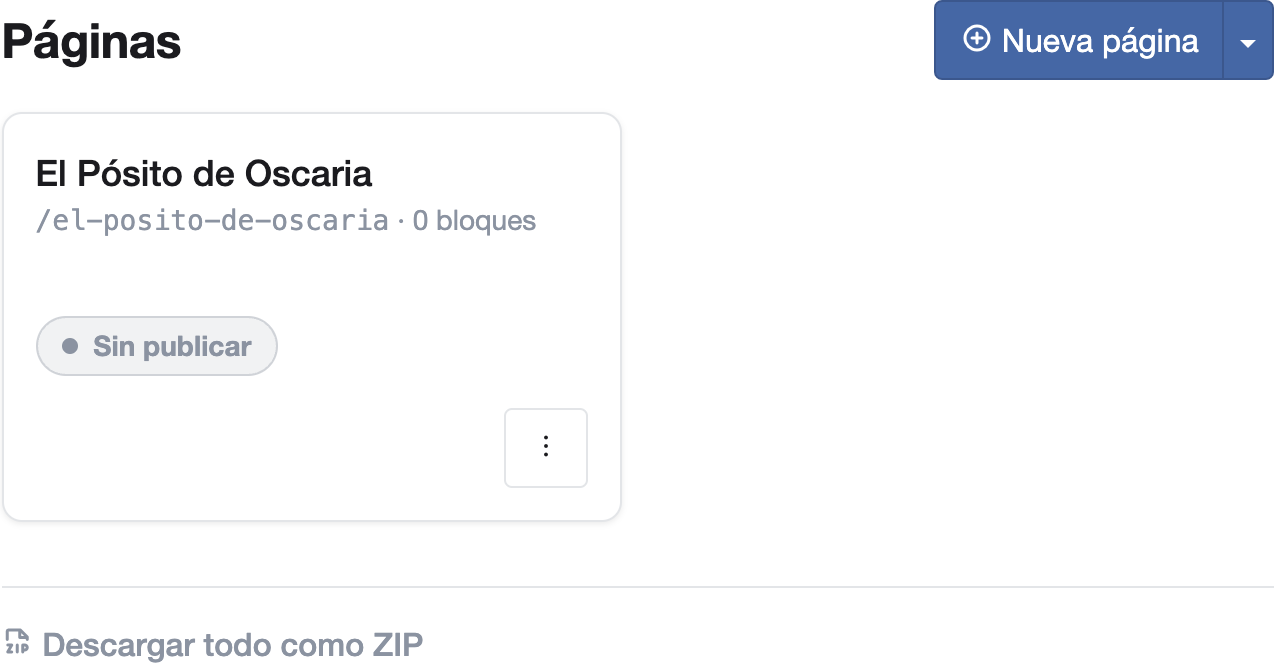
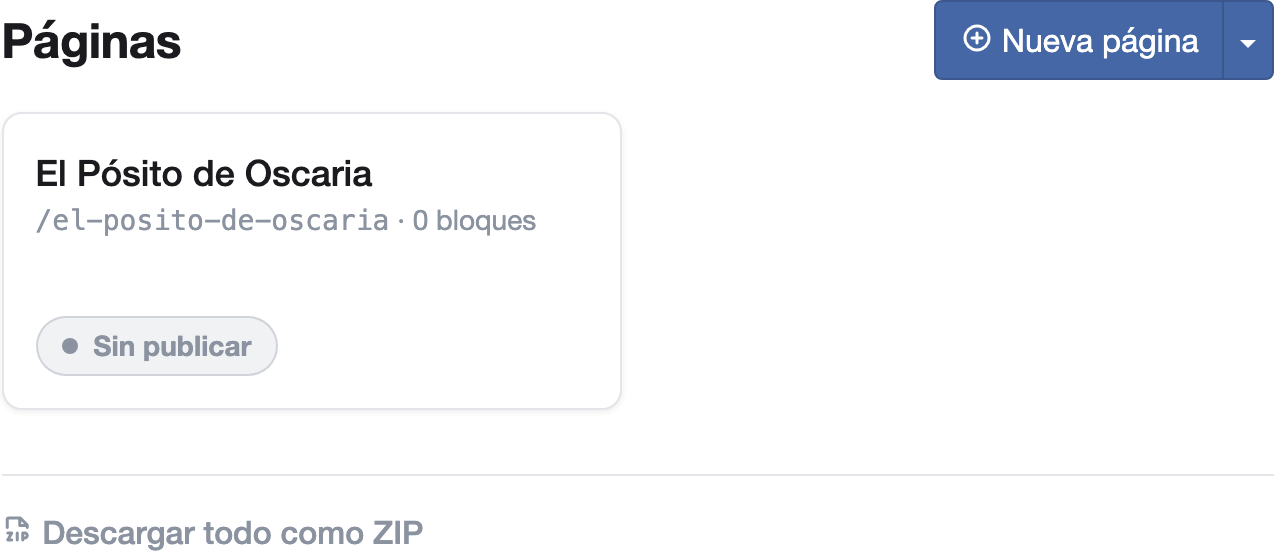
docs(user-guide): plantillas con origen y «Ver», menú «Portal de difusión» y lista «Del catálogo»
La guía explica cómo saber si la página de una plantilla ha cambiado y cómo actualizarla, cómo ver una plantilla antes de
elegirla y la vista previa desde la lista de páginas. El mantenimiento de las plantillas pasa a su propia página. Las
entradas del portal están en el apartado «Portal de difusión» del menú de Administración. En «Del catálogo», el botón de
cada fila es «Quitar de la lista» y un icono abre en otra pestaña lo que nombra; la búsqueda elegida en un bloque se
abre pulsando su nombre, y el número de fichas del visitante solo se dice si ve menos que quien edita.

diff --git a/docs/user-guide/diffusion-portal/index.md b/docs/user-guide/diffusion-portal/index.md
@@ -14,14 +14,17 @@ escribir código. Esta sección explica, tarea a tarea, cómo hacerlo.
 - [Ampliar una imagen al hacer clic](image-zoom.md)
 - [Elegir las imágenes de un bloque](choose-images.md)
 - [Poner un vídeo](video.md)
-- [Empezar desde una plantilla y mantenerlas](templates.md)
+- [Empezar desde una plantilla](templates.md)
+- [Mantener las plantillas de página](maintain-templates.md)
 - [Elegir contenido del catálogo](catalog-content.md)
 
 ## Antes de empezar
 
 Para editar el portal necesitas una cuenta con permiso de administración del portal.
 
-1. En **Administración**, apartado **General**, pulsa **Portal de Difusión**. Se abre la lista de **Páginas**.
+1. En **Administración**, apartado **Portal de difusión**, pulsa **Páginas del portal**. Se abre la lista de **Páginas**.
+
+    ![El apartado Portal de difusión del menú de Administración.](../../assets/screenshots/es/diffusion-portal/index/admin-menu.png){ width="490" }
 
     ![Lista de Páginas del Portal de Difusión.](../../assets/screenshots/es/diffusion-portal/index/pages-list.png){ width="638" }
 
@@ -29,9 +32,14 @@ Para editar el portal necesitas una cuenta con permiso de administración del po
 
     ![Editor de página del portal, sin bloques.](../../assets/screenshots/es/diffusion-portal/index/page-editor.png){ width="736" }
 
+Para ver una página sin abrir su editor, pasa el ratón por su tarjeta y pulsa **Más acciones** y **Vista previa**: se
+abre en otra pestaña.
+
+![El menú de una tarjeta.](../../assets/screenshots/es/diffusion-portal/templates/page-card-menu.png){ width="310" }
+
 Para crear una página, pulsa **Nueva página**. Su **Ruta** se propone a partir del título. Si hay plantillas que ofrecer, en **Empezar con** eliges una página en blanco o una plantilla ([Empezar desde una plantilla](templates.md)).
 
-![Ventana Nueva página, con el Título escrito y la Ruta propuesta.](../../assets/screenshots/es/diffusion-portal/index/new-page.png){ width="640" }
+![La ventana Nueva página, con la Ruta propuesta.](../../assets/screenshots/es/diffusion-portal/index/new-page.png){ width="640" }
 
 ## Cómo funciona el editor
 
@@ -40,7 +48,7 @@ Para crear una página, pulsa **Nueva página**. Su **Ruta** se propone a partir
   valores del ejemplo: arriba, las que definen su contenido; debajo, las demás, en grupos plegados
   ([Ver y cambiar las demás opciones de un bloque](block-options.md)).
 
-    ![Catálogo de bloques que se abre con Añadir bloque.](../../assets/screenshots/es/diffusion-portal/index/block-catalog.png){ width="421" }
+    ![El catálogo de bloques.](../../assets/screenshots/es/diffusion-portal/index/block-catalog.png){ width="421" }
 
 - **Cambiar el ejemplo por tu contenido**: cambia cada texto en su campo y cada imagen con **Cambiar**
   ([Cambiar o quitar la imagen](choose-images.md#cambiar-o-quitar-la-imagen)). En los bloques con elementos, como un
@@ -48,8 +56,8 @@ Para crear una página, pulsa **Nueva página**. Su **Ruta** se propone a partir
 - **Cambiar un bloque**: pulsa en cualquier punto del bloque para volver a abrir sus opciones
   ([Seleccionar un bloque](select-block.md)).
 - **Guardar**: cada cambio de las opciones de un bloque se guarda solo, y cada elemento de una lista, con **Guardar
-  elemento**. El aviso «Guardado» lo confirma y, si algo no se ha guardado, un mensaje te dice qué campo revisar y el
-  campo queda marcado ([Guardar los cambios](save-changes.md)).
+  elemento**. El aviso «Guardado» lo confirma. Si algo no se guarda, un mensaje dice qué campo
+  revisar ([Guardar los cambios](save-changes.md)).
 - **Ver cómo queda**: pulsa **Vista previa**. Se abre en otra pestaña la página con tus cambios, con la cabecera y el
   pie de la web pública, y puedes verla con el ancho de un móvil, una tableta o un escritorio
   ([Ver la página en cada dispositivo](publish.md#ver-la-pagina-en-cada-dispositivo)). Si haces más cambios, recarga

diff --git a/docs/user-guide/diffusion-portal/templates.md b/docs/user-guide/diffusion-portal/templates.md
@@ -1,4 +1,4 @@
-# Empezar desde una plantilla y mantenerlas
+# Empezar desde una plantilla
 
 Una página nueva puede empezar con el contenido de una plantilla, una página guardada para ese fin. La página que
 creas es una copia: la editas sin tocar la plantilla, y corregir después la plantilla no cambia las páginas ya
@@ -13,50 +13,16 @@ creadas.
 
     ![La ventana Nueva página con una plantilla elegida en Empezar con.](../../assets/screenshots/es/diffusion-portal/templates/new-page-from-template.png){ width="640" }
 
-**Empezar con** solo aparece si el portal tiene plantillas.
+**Empezar con** solo aparece si el portal tiene plantillas. Para ver una antes de elegirla, pulsa **Ver**, que sale al
+pasar el ratón por la plantilla o al llegar a ella con Tab: se abre en otra pestaña cómo queda la página.
+
+![Nueva página con Ver a la vista junto a la plantilla de Empezar con.](../../assets/screenshots/es/diffusion-portal/templates/new-page-view.png){ width="640" }
 
 La página nace como borrador: los visitantes no la ven hasta que la publicas ([Publicar una página](publish.md)). Si la
 plantilla conserva textos o imágenes del ejemplo de un bloque, la página también los conserva, y al publicarla sale el
 aviso de contenido de ejemplo
 ([Si la página conserva contenido del ejemplo](publish.md#si-la-pagina-conserva-contenido-del-ejemplo)).
 
-Las imágenes y los vídeos de la plantilla son los de **Imágenes y vídeos del portal**. La página creada los muestra
-sin que se copie nada.
+La página creada usa las imágenes y los vídeos de la plantilla, que están en **Imágenes y vídeos del portal**.
 
-## Añadir una plantilla
-
-Quien administra el portal mantiene las plantillas. En **Administración**, apartado **General**, pulsa **Plantillas de
-página**.
-
-![Plantillas de página, con la plantilla guardada, su descripción y sus acciones.](../../assets/screenshots/es/diffusion-portal/templates/templates.png){ width="638" }
-
-1. Pulsa **Añadir plantilla**.
-2. En **Contenido**, elige la página de tu portal de la que se toma el contenido. Se guarda lo que ves en el editor,
-   aunque no esté publicado.
-3. Pulsa **Guardar plantilla**.
-
-    ![El diálogo Añadir plantilla, con el Nombre, la Descripción y la página elegida en Contenido.](../../assets/screenshots/es/diffusion-portal/templates/template-form.png){ width="640" }
-
-El **Nombre** es obligatorio y puede repetirse. Con él aparece la plantilla en **Plantillas de página** y en **Nueva
-página**. La **Descripción** admite negrita, cursiva, listas y enlaces.
-
-También se guarda una página como plantilla desde su editor: en **Más acciones**, pulsa **Guardar como
-plantilla…**. El **Nombre** se propone con el título de la página. Al guardar sale el aviso «Se ha guardado la plantilla
-«…».».
-
-## Corregir una plantilla
-
-La plantilla no se edita en el editor de páginas, que trabaja con páginas. Para corregir su contenido:
-
-1. Crea una página desde la plantilla y corrígela. No hace falta publicarla.
-2. En **Plantillas de página**, pulsa **Editar** en la plantilla.
-3. En **Contenido**, elige esa página y pulsa **Guardar plantilla**.
-
-Con **Contenido** vacío se conserva el contenido actual y solo cambian el **Nombre** y la **Descripción**.
-
-## Ocultar y eliminar una plantilla
-
-- **Ocultar** retira la plantilla de **Nueva página**. En **Plantillas de página** sigue visible con la marca
-  **Oculta**, y **Mostrar** la devuelve a **Nueva página**.
-- **Eliminar** pide confirmación: pulsa **Eliminar plantilla**. Se borran su contenido y su descripción, y no se puede
-  deshacer. Las páginas creadas desde ella no cambian.
+Quien administra el portal añade, actualiza, oculta y elimina las plantillas ([Mantener las plantillas](maintain-templates.md)).

diff --git a/docs/user-guide/diffusion-portal/maintain-templates.md b/docs/user-guide/diffusion-portal/maintain-templates.md
@@ -1,0 +1,60 @@
+# Mantener las plantillas de página
+
+Las plantillas se mantienen en **Plantillas de página**: se añaden, se ponen al día cuando cambia la página de la que
+salen, se ocultan y se eliminan. Se usan al crear una página ([Empezar desde una plantilla](templates.md)).
+
+## Añadir una plantilla
+
+En **Administración**, apartado **Portal de difusión**, pulsa **Plantillas de página**.
+
+![Plantillas de página, con la plantilla guardada y su descripción.](../../assets/screenshots/es/diffusion-portal/templates/templates.png){ width="638" }
+
+1. Pulsa **Añadir plantilla**.
+2. En **Contenido**, elige la página de tu portal de la que se toma el contenido. Se guarda lo que ves en el editor,
+   aunque no esté publicado.
+3. Pulsa **Guardar plantilla**.
+
+    ![El diálogo Añadir plantilla, con el Nombre, la Descripción y la página elegida en Contenido.](../../assets/screenshots/es/diffusion-portal/templates/template-form.png){ width="640" }
+
+El **Nombre** es obligatorio y puede repetirse. Con él aparece la plantilla en **Plantillas de página** y en **Nueva
+página**. La **Descripción** admite negrita, cursiva, listas y enlaces.
+
+También se guarda una página como plantilla desde su editor: en **Más acciones**, pulsa **Guardar como
+plantilla…**. El **Nombre** se propone con el título de la página. Al guardar sale el aviso «Se ha guardado la plantilla
+«…».».
+
+Las acciones de cada plantilla salen al pasar el ratón por ella o al llegar con Tab. **Ver** la abre en otra pestaña,
+como se vería al crear una página desde ella.
+
+## Saber si la página de una plantilla ha cambiado
+
+La plantilla recuerda la página de la que tomó su contenido, pero no la sigue. Si esa página cambia después,
+**Plantillas de página** avisa: «La página de origen ha cambiado desde que se guardó la plantilla». Si la página ya no
+existe, el aviso es «La página de origen ya no existe».
+
+![Una plantilla con el aviso de que su página de origen ha cambiado, y sus acciones a la vista.](../../assets/screenshots/es/diffusion-portal/templates/origin-changed.png){ width="638" }
+
+Para poner la plantilla al día, pulsa **Actualizar desde la página**. Toma el contenido actual de la página y conserva
+el **Nombre** y la **Descripción**. Desde el editor de esa página se hace igual: en **Más acciones**, pulsa **Actualizar
+la plantilla «…»**.
+
+En la lista de **Páginas**, la página de la que sale una plantilla lleva la marca **Origen de plantilla**. Al dejar el
+ratón sobre la marca se lee «Se guardó como plantilla «…»».
+
+Una plantilla sin página de origen no avisa hasta que vuelve a tomar el contenido de una página.
+
+## Corregir una plantilla
+
+La plantilla no se edita en el editor de páginas, que trabaja con páginas: corrige la página de la que sale y pulsa
+**Actualizar desde la página**. Si la plantilla no tiene página de origen o esa página ya no existe, crea una página
+desde ella y corrígela. Después pulsa **Editar** en la plantilla, elige esa página en **Contenido** y pulsa **Guardar
+plantilla**.
+
+Con **Contenido** vacío se conserva el contenido actual y solo cambian el **Nombre** y la **Descripción**.
+
+## Ocultar y eliminar una plantilla
+
+- **Ocultar** retira la plantilla de **Nueva página**. En **Plantillas de página** sigue visible con la marca
+  **Oculta**, y **Mostrar** la devuelve a **Nueva página**.
+- **Eliminar** pide confirmación: pulsa **Eliminar plantilla**. Se borran su contenido y su descripción, y no se puede
+  deshacer. Las páginas creadas desde ella no cambian.

diff --git a/docs/user-guide/diffusion-portal/catalog-content.md b/docs/user-guide/diffusion-portal/catalog-content.md
@@ -41,8 +41,10 @@ Plano de la acequia de San Esteban de Litera»; una digitalización, por el nomb
 muestra su miniatura, una búsqueda tiene una lupa y un nivel del cuadro, una carpeta. **Buscar en la lista** filtra las
 entradas por su nombre.
 
-Pulsar una entrada la elige. **Quitar** aparece al pasar el ratón por la entrada o al llegar a ella con Tab, y siempre
-en una pantalla táctil. Quita la entrada de la lista sin pedir confirmación y no borra nada del catálogo.
+Pulsar una entrada la elige. A su derecha hay dos acciones, que aparecen al pasar el ratón por la entrada o al llegar a
+ella con Tab, y siempre en una pantalla táctil. El icono del ojo, **Abrir en el catálogo**, abre en otra pestaña lo que nombra
+la entrada, para que lo veas antes de elegirla. **Quitar de la lista** quita la entrada sin pedir confirmación y no borra
+nada del catálogo.
 
 Si una ficha ya no se encuentra en el catálogo, su entrada sale como «Ficha E901: ya no está en el catálogo», con su
 signatura en lugar del título. Lo mismo ocurre en el campo que la tenga elegida, donde se ofrecen **Cambiar** y
@@ -73,7 +75,7 @@ uno a uno.
     ![El origen De una búsqueda del catálogo, con Elegir búsqueda…, el número de elementos y el orden.](../../assets/screenshots/es/diffusion-portal/catalog-content/items-source.png){ width="395" }
 
 Con la búsqueda elegida, el bloque muestra su nombre, por ejemplo «Búsqueda: Cualquier término contiene archivo», con
-**Cambiar**, **Quitar** y **Abrir en el catálogo**, que la abre en otra pestaña. Entonces la pestaña no lista los
+**Cambiar** y **Quitar**. Pulsar el nombre abre la búsqueda en el catálogo, en otra pestaña. Entonces la pestaña no lista los
 elementos ni ofrece **Añadir elemento**. **Quitar** devuelve el bloque a **Los que añado yo**, con los elementos que
 ya tenía.
 
@@ -82,8 +84,8 @@ antigua a la más reciente**, **Fecha, de la más reciente a la más antigua** y
 primera página de resultados, de 30 fichas.
 
 El bloque enseña las fichas que vería un visitante sin sesión del sitio público, también en **Vista previa**, y solo
-las que tienen digitalización. El campo indica cuántas son: «Un visitante verá 8 de las 12 fichas que ves tú: las demás
-no son públicas o no tienen digitalizaciones.».
+las que tienen digitalización. Cuando el visitante ve menos fichas que tú, el campo lo dice: «Un visitante verá 8 de
+las 12 fichas que ves tú: las demás no son públicas o no tienen digitalizaciones.». Si ve las mismas, no dice nada.
 
 Si el bloque va a quedar vacío, debajo aparece uno de estos avisos:
 

diff --git a/docs/user-guide/diffusion-portal/choose-images.md b/docs/user-guide/diffusion-portal/choose-images.md
@@ -172,7 +172,8 @@ Una digitalización se puede copiar desde la administración y elegirla después
 2. En la fila de la digitalización, pulsa **Más acciones** y después **Copiar referencia para el portal**. Sale el
    aviso «Copiada y añadida a «Del catálogo».». La acción la ven las cuentas con permiso de administración del portal.
 3. En el editor, abre el diálogo de la imagen. La digitalización sale en la pestaña **Del catálogo**, con
-   su nombre, y se elige pulsando su fila ([Elegir contenido del catálogo](catalog-content.md#elegirlo-en-el-editor)).
+   su nombre, y se elige pulsando su fila. Para verla antes de elegirla, pulsa el icono del ojo de la fila: se abre en otra
+   pestaña ([Elegir contenido del catálogo](catalog-content.md#elegirlo-en-el-editor)).
 
 ## Elegir un enlace
 
@@ -201,7 +202,7 @@ En la página publicada, el enlace a una ficha lleva a la ficha de esa descripci
 
 Las imágenes del portal también se suben y se organizan fuera del editor:
 
-1. Pulsa **Administración** en el menú superior y, en el apartado **General**, pulsa **Imágenes y vídeos del portal**.
+1. Pulsa **Administración** en el menú superior y, en el apartado **Portal de difusión**, pulsa **Imágenes y vídeos del portal**.
 
     ![Las tres imágenes subidas a Imágenes y vídeos del portal.](../../assets/screenshots/es/diffusion-portal/choose-images/portal-images.png){ width="638" }
 
